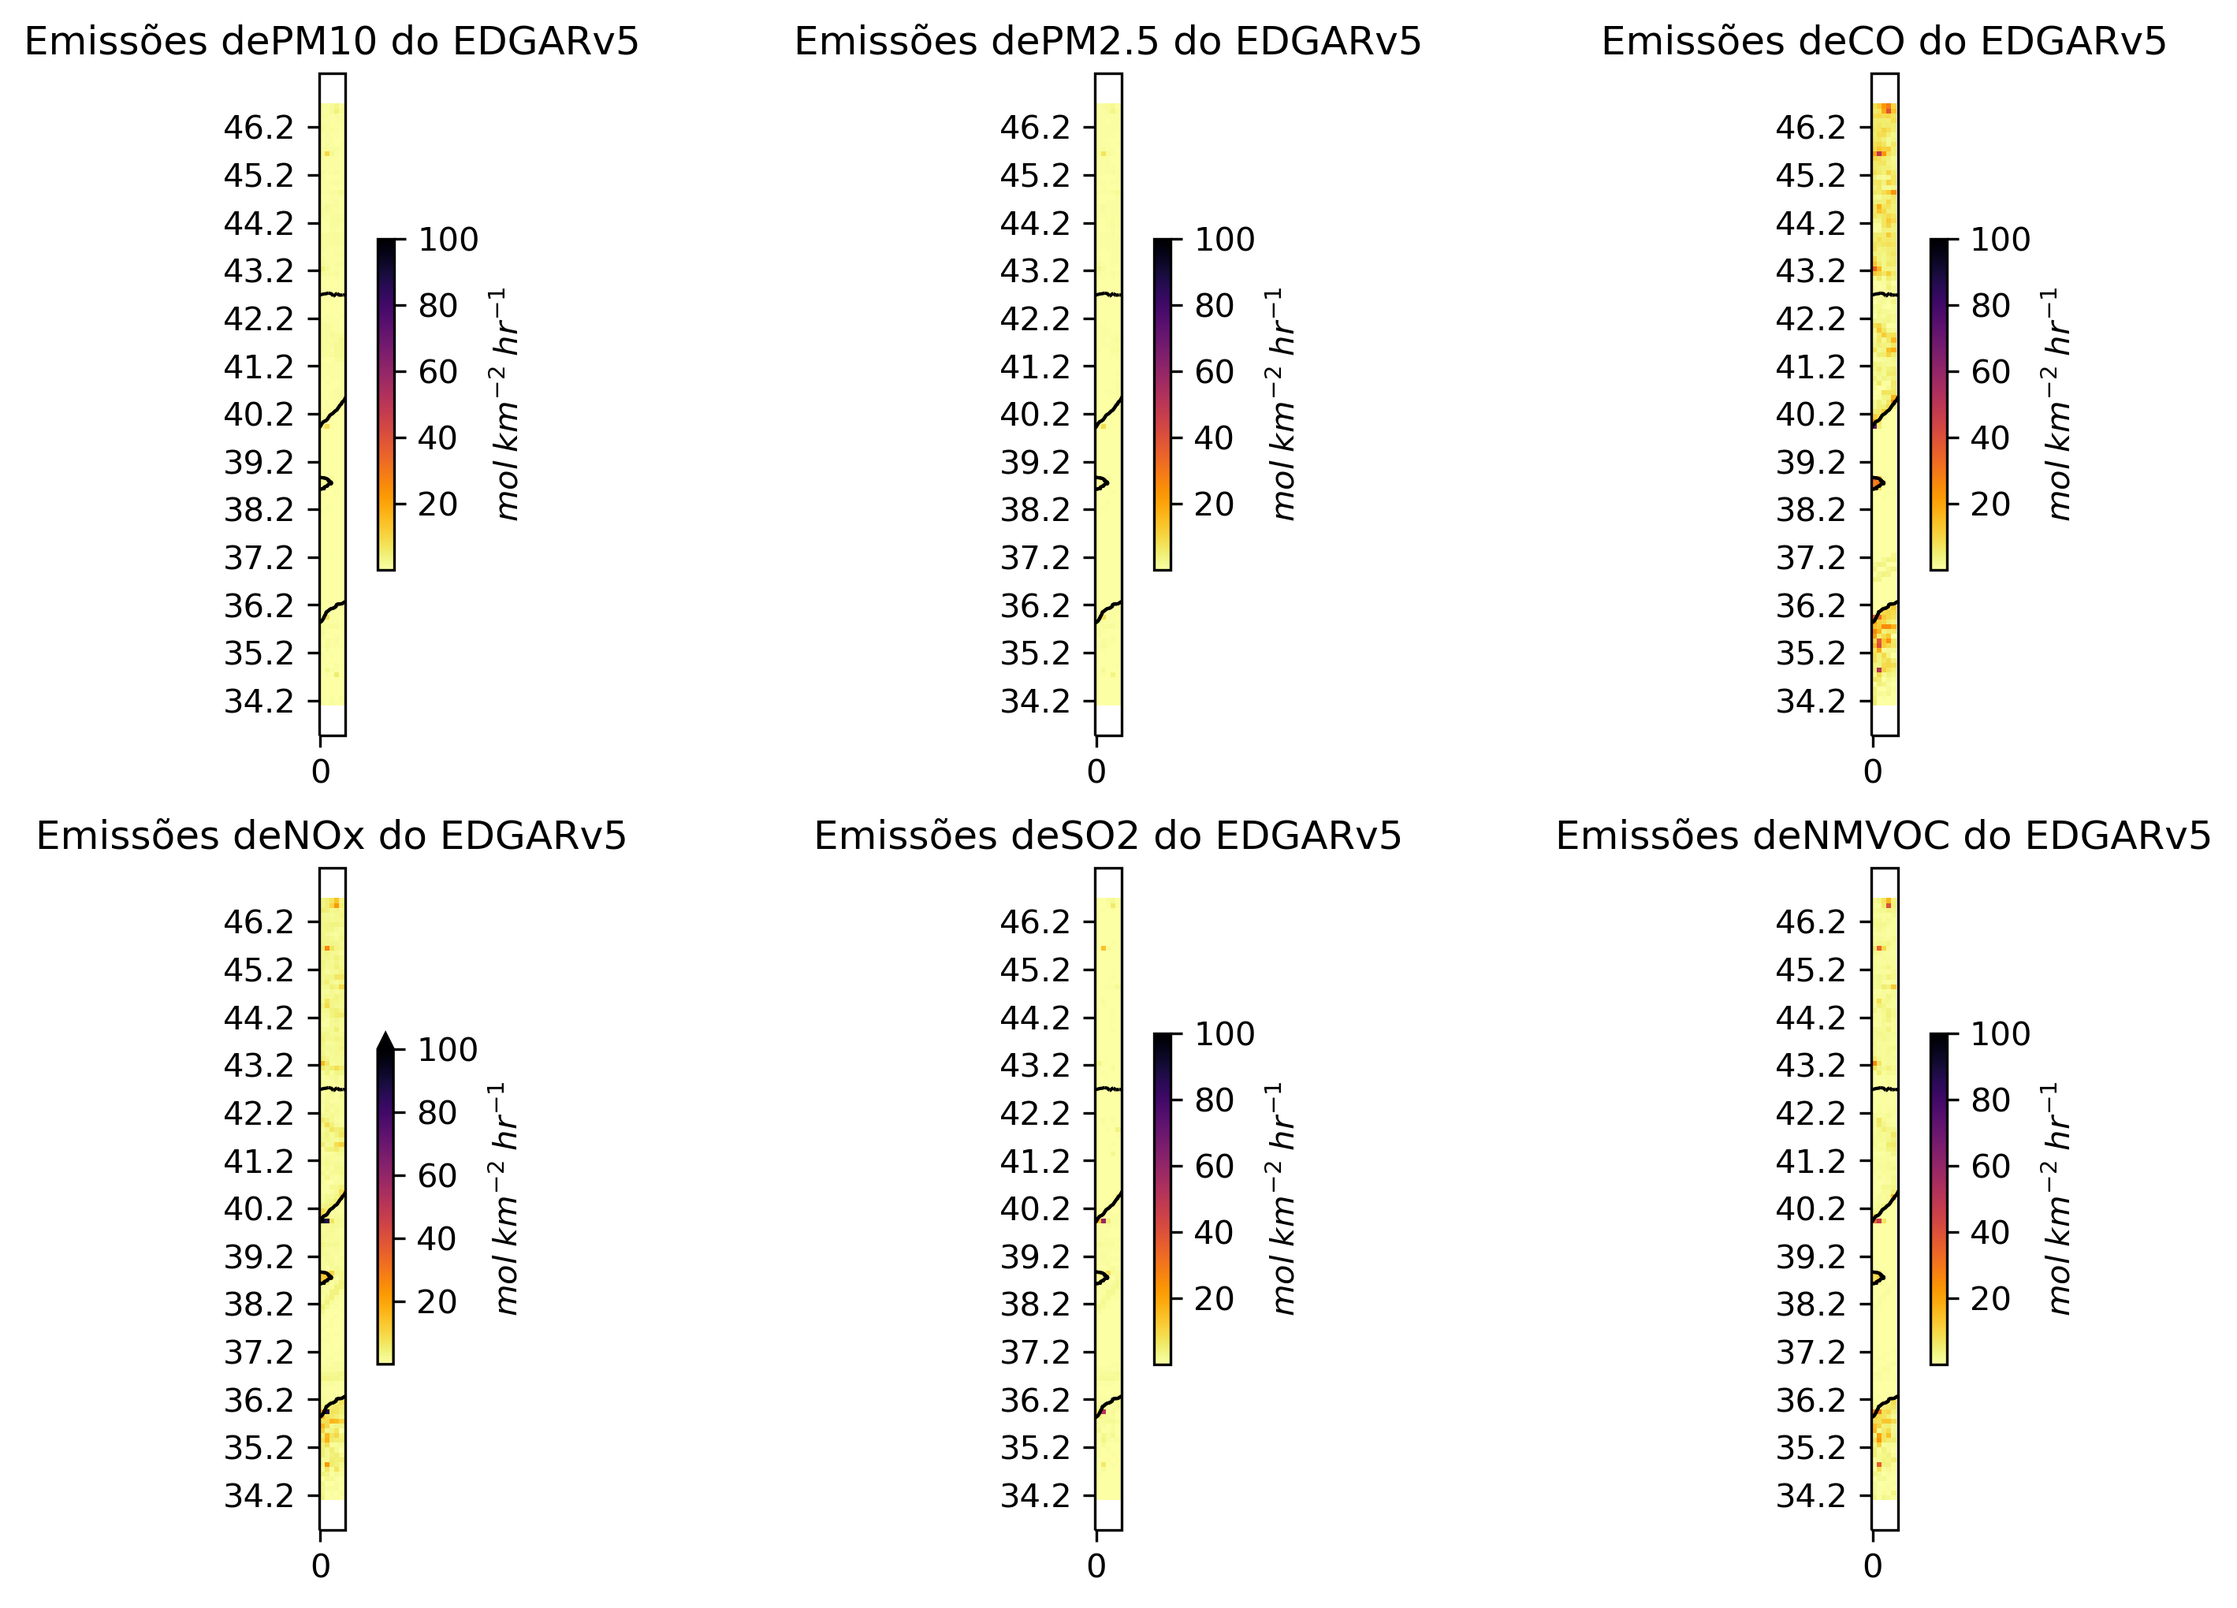
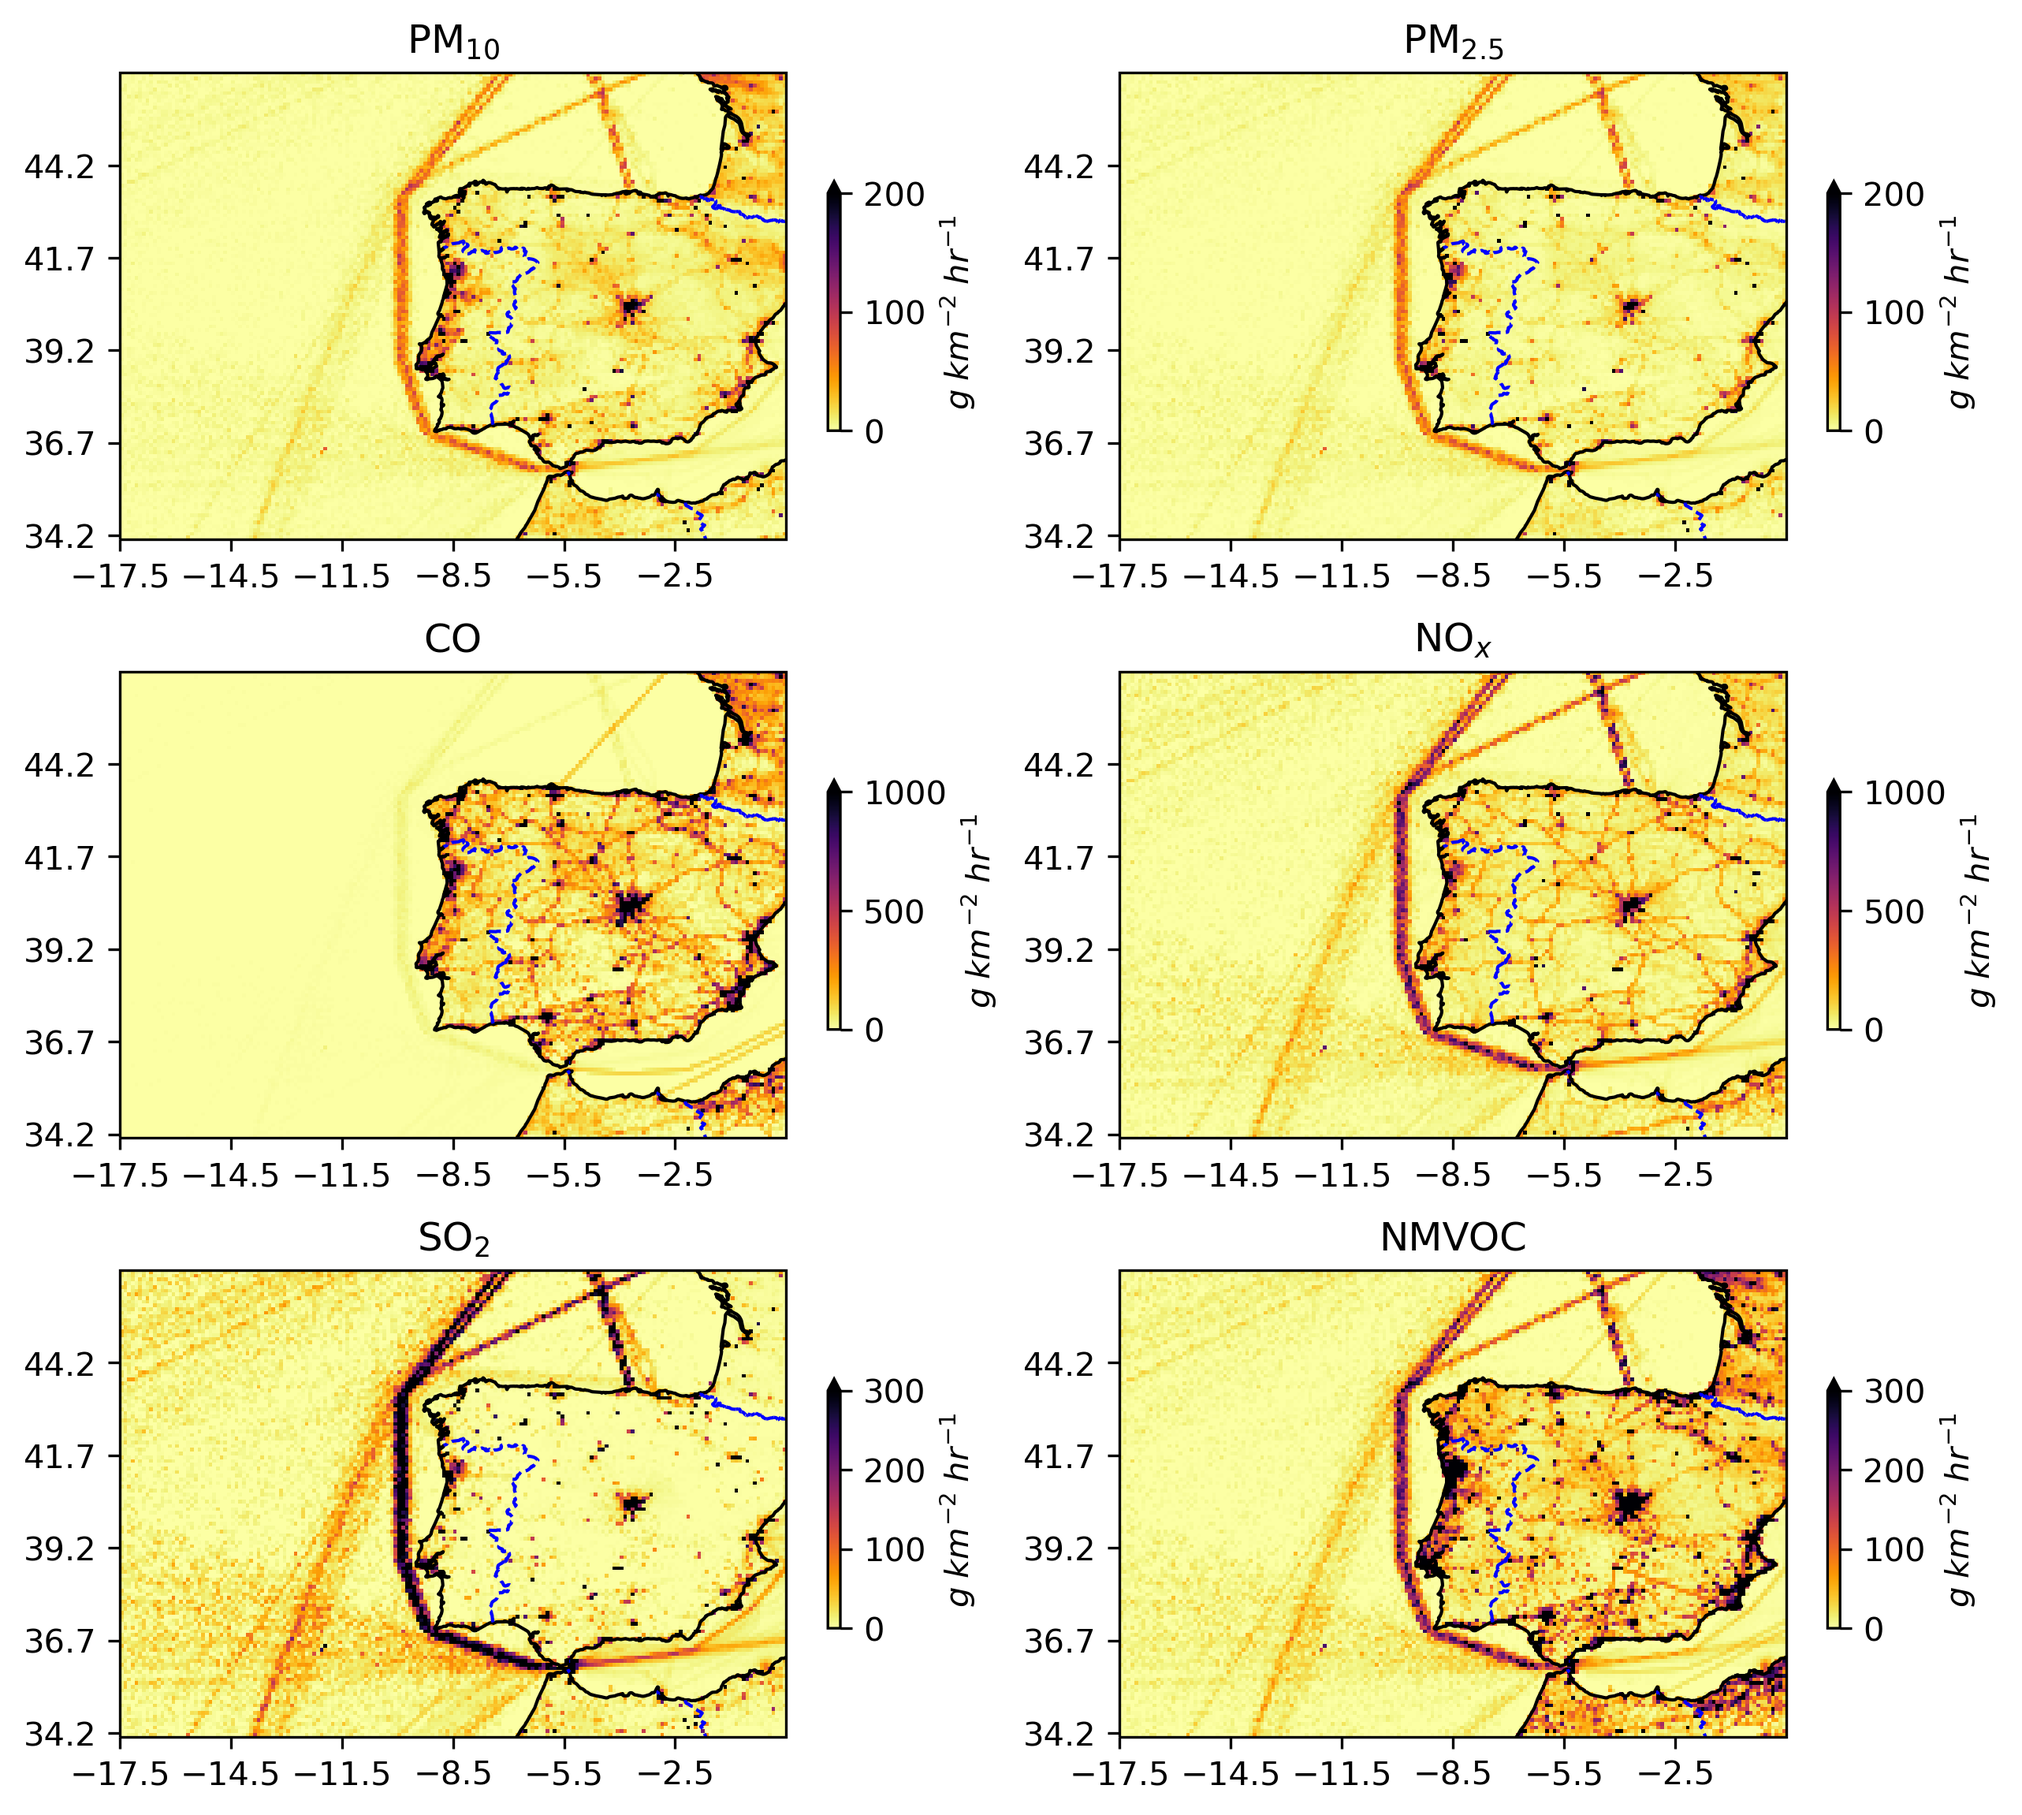
Edgarv5 Emissions 2015

diff --git a/01_scripts/04_Emissions.py b/01_scripts/04_Emissions.py
@@ -10,52 +10,57 @@ import cartopy.io.shapereader as shpreader
 
 # NOx PM10, PM2.5, CO
 
-pol = ['PM10', 'PM2.5', 'CO', 'NOx', 'SO2', 'NMVOC']
+pol = {'PM10':200, 'PM2.5':200, 'CO':1000, 'NOx':1000, 'SO2':300, 'NMVOC':300}
+pol_name = {'PM10':'PM$_{10}$', 'PM2.5':'PM$_{2.5}$', 'CO':'CO', 'NOx':'NO$_x$',
+            'SO2':'SO$_{2}$', 'NMVOC':'NMVOC'}
 
-wrfchemi_path = '../../portugal/WRF/WRF-4.2.1/test/em_real/wrfchemi_00z_d01'
+
+#wrfchemi_path = '../../portugal/WRF/WRF-4.2.1/test/em_real/wrfchemi_00z_d01'
 
 # Loading wrfchemis and original htap emission
-wrfchemi = xr.open_dataset(wrfchemi_path)
+#wrfchemi = xr.open_dataset(wrfchemi_path)
 edgarv5_all = {}
 edgarv5 = {}
 edgarv5_wrf = {}
 
-for p in pol:
-    f = '/scr2/alejandro/WRF/DATA/util/EDGARv5_MOZART/edgar_v5_2015_'+p+'_0.1x0.1.nc'
+for p in pol.keys():
+    print(p)
+    f = '/Volumes/passport/EDGARv5/edgar_v5_2015_'+p+'_0.1x0.1.nc'
     edgarv5_all[p] = xr.open_dataset(f)
     edgarv5[p] = edgarv5_all[p].TOTAL.isel(time=8) # September 2015
     edgar_lon = (edgarv5[p].
                  assign_coords({"lon": (((edgarv5_all[p].lon + 180) % 360) - 180)}).
                  sortby('lon'))
-    edgarv5_wrf[p] = edgarv5[p].sel(lat=slice(wrfchemi.XLAT.values.min(), 
-                                              wrfchemi.XLAT.values.max()),
-                                    lon=slice(wrfchemi.XLONG.values.min(),
-                                              wrfchemi.XLONG.values.max()))
-    edgarv5_wrf[p] = edgarv5_wrf[p] * 3600 * 10**6 * 10**3 / 30
-    
+    edgarv5_wrf[p] = edgar_lon.sel(lat=slice( 34.08085,#wrfchemi.XLAT.values.min(), 
+                                              46.696537), #wrfchemi.XLAT.values.max()),
+                                    lon=slice(-17.50528, #wrfchemi.XLONG.values.min(),
+                                              0.50527954)) #wrfchemi.XLONG.values.max()))
+    edgarv5_wrf[p] = edgarv5_wrf[p] * 3600 * 10**6 * 10**3 # g km^-2 hr^-1
     
 # Make a plot
-fig, axes = plt.subplots(3,2, figsize=(16, 8), subplot_kw = {'projection': ccrs.PlateCarree()})
+fig, axes = plt.subplots(3,2, figsize=(10, 9.5), subplot_kw = {'projection': ccrs.PlateCarree()})
 
-for p, ax in zip(pol, axes.flat):
-    edgarv5_wrf[p].plot(ax=ax, cmap='inferno_r', y='lat', x='lon', vmax = 100,
-                        cbar_kwargs={'shrink':0.5, 'label': '$mol\;km^{-2}\; hr^{-1}$'})
-    ax.set_title("Emissões de "+p+" do EDGARv5")
+for p, ax in zip(pol.keys(), axes.flatten()):
+    edgarv5_wrf[p].plot(ax=ax, cmap='inferno_r', y='lat', x='lon', vmax = pol[p],
+                        cbar_kwargs={'shrink':0.5, 'label': '$ g\;km^{-2}\; hr^{-1}$', 
+                                     'spacing':'proportional'})
+    ax.set_title(pol_name[p])
 
-    ax.set_yticks(np.arange(edgarv5_wrf[p].lat.min().round(1),
-                          edgarv5_wrf[p].lat.max().round(1),
-                          1),
-                   crs=ccrs.PlateCarree())
+    ax.set_yticks(np.arange(edgarv5_wrf[p].lat.min().round(1), 
+                           edgarv5_wrf[p].lat.max().round(1), 2.5),
+                  crs=ccrs.PlateCarree())
     ax.set_xticks(np.arange(edgarv5_wrf[p].lon.min().round(1),
-                            edgarv5_wrf[p].lon.max().round(1), 2),
-                       crs=ccrs.PlateCarree())
+                            edgarv5_wrf[p].lon.max().round(1), 3),
+                  crs=ccrs.PlateCarree())
     ax.set_ylabel('')
     ax.set_xlabel('')
     ax.coastlines('10m')
-    ax.add_feature(cfeature.BORDERS)
-    ax.coastlines()
+    ax.add_feature(cfeature.BORDERS, edgecolor ='blue', linestyle='--', alpha=1)
+    #gl=ax.gridlines(draw_labels=False, dms=True, x_inline=False, y_inline=False)
+    #gl.xlabel_style = {'size':8}
+    #gl.ylabel_style = {'size':8}
 
-plt.savefig("../03_output/fig/analysis/wrfchemis_map.png", bbox_inches="tight", dpi=300)
+fig.savefig("03_output/fig/analysis/wrfchemis_map.png", bbox_inches="tight", dpi=300)
 
 
 
